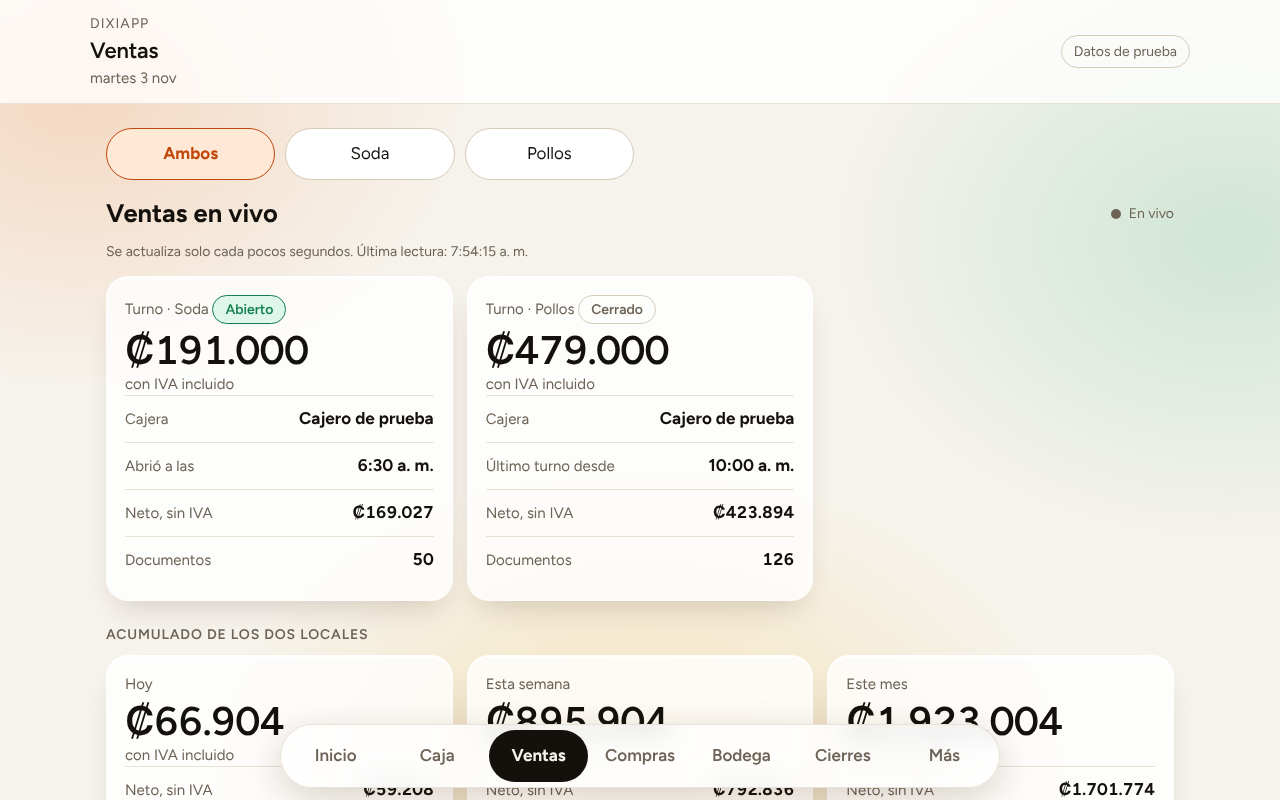
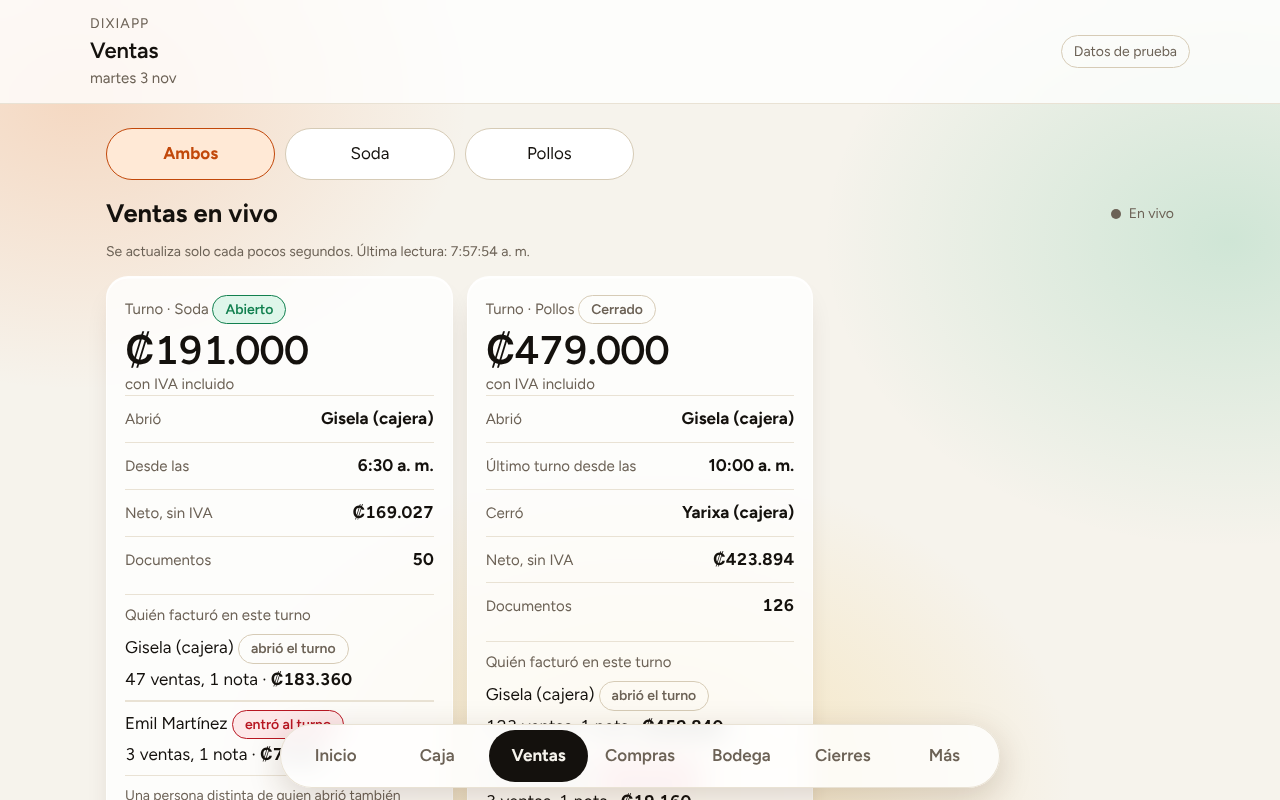
Dixiapp: avisos en el telefono (push web), turno con quien abrio y filtro por clasificacion en compras
Claude-Session: https://claude.ai/code/session_011LYsWAhbE7D1p4ByhmTELK

diff --git a/web/src/datos/supabase.js b/web/src/datos/supabase.js
@@ -3,6 +3,8 @@
 // Acceso: correo + contrasena (Supabase Auth) y, ademas, un PIN local por aparato para desbloquear sin escribir la clave.
 // El PIN solo guarda un hash PBKDF2 con sal en este aparato y solo sirve mientras haya una sesion valida.
 import { validarImplementacion } from './interfaz.js';
+import { CONFIG } from './config.js';
+import { motivoNoDisponible, suscripcionActual, crearSuscripcion, datosDe } from './push-cliente.js';
 import { horaLegible, lunesDe, sumarDias } from './fechas.js';
 import { resumenDesdeDias, desdeResumen } from './compras-calc.js';
 import { SUGERENCIA_MINIMOS } from './minimos-sugeridos.js';
@@ -270,7 +272,7 @@ export function crearDatosSupabase({ cliente, almacen = almacenPorDefecto(), aho
     async ventasEnVivo({ negocios } = {}) {
       await exigirAdmin();
       const r = ok(await db().rpc('ventas_en_vivo', { p_negocios: negocios && negocios.length ? negocios : null }));
-      const bloque = (b) => (b ? { total: num(b.con_iva), iva: num(b.iva), neto: num(b.con_iva) - num(b.iva), docs: Number(b.docs), desde: b.desde, hasta: b.hasta, estado: b.estado, abiertaPor: b.abierta_por || null, cerradaPor: b.cerrada_por || null } : null);
+      const bloque = (b) => (b ? { total: num(b.con_iva), iva: num(b.iva), neto: num(b.con_iva) - num(b.iva), docs: Number(b.docs), desde: b.desde, hasta: b.hasta, estado: b.estado, abiertaPor: b.abierta_por || null, cerradaPor: b.cerrada_por || null, terminal: b.terminal ?? null, participantes: (b.participantes || []).map((p) => ({ usuario: p.usuario, nombre: p.nombre, abrio: !!p.abrio, ventas: Number(p.ventas || 0), notas: Number(p.notas || 0), total: num(p.con_iva) })) } : null);
       return { generado: r.generado, negocios: (r.negocios || []).map((n) => ({ negocioId: n.negocio_id, turno: bloque(n.turno), hoy: bloque(n.hoy), semana: bloque(n.semana), mes: bloque(n.mes) })) };
     },
     async ventasAgrupadas({ negocios, desde, hasta, por }) {
@@ -278,6 +280,35 @@ export function crearDatosSupabase({ cliente, almacen = almacenPorDefecto(), aho
       const r = ok(await db().rpc('ventas_agrupadas', { p_negocios: negocios && negocios.length ? negocios : null, p_desde: desde, p_hasta: hasta, p_por: por }));
       return (r || []).map((f) => ({ clave: f.clave, etiqueta: f.clave, facturas: Number(f.documentos), neto: Number(f.sin_iva), iva: Number(f.iva), total: Number(f.con_iva) }));
     },
+    // ---------- Avisos en el telefono ----------
+    async avisosEstado() {
+      await exigirAdmin();
+      const motivo = motivoNoDisponible(), sub = await suscripcionActual();
+      if (!sub) return { motivo, activo: false, prefs: {} };
+      const r = ok(await db().rpc('push_estado', { p_endpoint: sub.endpoint }));
+      return { motivo: motivo === 'bloqueado' ? motivo : '', activo: !!r?.activo, prefs: r?.prefs || {} };
+    },
+    async avisosActivar() {
+      await exigirAdmin();
+      const sub = await crearSuscripcion(CONFIG.vapid);
+      if (!sub) return { motivo: 'bloqueado', activo: false, prefs: {} };
+      const d = datosDe(sub);
+      ok(await db().rpc('push_guardar', { p_endpoint: d.endpoint, p_p256dh: d.p256dh, p_auth: d.auth, p_agente: navigator.userAgent }));
+      return { motivo: '', activo: true, prefs: {} };
+    },
+    async avisosDesactivar() {
+      await exigirAdmin();
+      const sub = await suscripcionActual(); if (!sub) return;
+      ok(await db().rpc('push_quitar', { p_endpoint: sub.endpoint }));
+      await sub.unsubscribe();
+    },
+    async avisosGuardarPrefs(prefs) {
+      await exigirAdmin();
+      const sub = await suscripcionActual(); if (!sub) return prefs;
+      ok(await db().rpc('push_prefs_guardar', { p_endpoint: sub.endpoint, p_prefs: prefs }));
+      return prefs;
+    },
+    async avisosProbar() { await exigirAdmin(); ok(await db().rpc('push_prueba')); },
     async ventasSuscribir(cb) { await exigirAdmin(); const t = setInterval(() => cb({ tipo: 'pulso' }), 20000); return () => clearInterval(t); },
     // ---------- Inicio de Dixia ----------
     async viajes() {

diff --git a/web/src/vistas.js b/web/src/vistas.js
@@ -169,8 +169,35 @@ export function vistaCierres({ cierres, hayMas, semana }) {
 }
 
 // ---------- Más ----------
-export function vistaMas({ usuario, esAdmin, esPrueba, conBloqueo, negocios }) {
-  return `<h2 class="titulo-seccion">Sesión</h2><section class="tarjeta"><div class="fila"><span class="etq">Usuario</span><b>${esc(usuario.nombre)}</b></div>
+const MOTIVOS_AVISOS = {
+  ios_sin_instalar: 'Para recibir avisos en el iPhone, la app tiene que estar guardada en la pantalla de inicio (botón Compartir de Safari, luego «Agregar a pantalla de inicio») y abrirse desde ahí.',
+  sin_soporte: 'Este navegador no permite recibir avisos. En Android sirve Chrome; en iPhone, Safari con la app guardada en la pantalla de inicio.',
+  bloqueado: 'Los avisos están bloqueados en los ajustes de este teléfono para Dixiapp. Se activan desde los ajustes de notificaciones del teléfono.',
+};
+const TIPOS_AVISO = [
+  ['cierre_turno', 'Cierre de turno', 'Quién cerró, cuánto se vendió y cómo quedó el efectivo.'],
+  ['diferencia_caja', 'Diferencia de caja', 'Solo cuando al cerrar sobró o faltó efectivo.'],
+  ['efectivo', 'Entradas y salidas de efectivo', 'Monto, motivo y quién lo registró.'],
+  ['resumen_diario', 'Resumen de ayer, 8:00 a. m.', 'Ventas de ayer por local frente al mismo día de la semana pasada.'],
+];
+export const MINIMOS_EFECTIVO = [0, 10000, 25000, 50000];
+const aviso = (b, t) => `<div class="fila"><span><b>${t[1]}</b><br><span class="etq">${t[2]}</span></span>${boton('aviso-pref', (b.prefs[t[0]] ?? true) ? 'Activado' : 'Apagado', (b.prefs[t[0]] ?? true) ? 'bloque' : 'bloque peligro', `data-valor="${t[0]}" style="min-width:110px"`)}</div>`;
+function tarjetaAvisos(b) {
+  if (!b) return '';
+  let cuerpo;
+  if (b.motivo) cuerpo = `<p style="margin:0">${MOTIVOS_AVISOS[b.motivo] || ''}</p>`;
+  else if (!b.activo) cuerpo = `<p style="margin:0 0 12px">Recibirá en este teléfono un aviso corto cuando pase algo importante, aunque la app esté cerrada.</p>${boton('avisos-activar', 'Activar avisos')}`;
+  else {
+    const min = Number(b.prefs.efectivo_minimo || 0);
+    cuerpo = TIPOS_AVISO.map((t) => aviso(b, t)).join('')
+      + ((b.prefs.efectivo ?? true) ? `<div class="fila"><span><b>Efectivo: avisar desde</b><br><span class="etq">Toque para cambiar el monto mínimo.</span></span>${boton('aviso-min', min ? '₡' + min.toLocaleString('es-CR') : 'Todos', 'bloque', 'style="min-width:110px"')}</div>` : '')
+      + `<div class="acciones" style="margin-top:12px">${boton('avisos-probar', 'Enviar aviso de prueba')}${boton('avisos-desactivar', 'Desactivar en este teléfono', 'bloque peligro')}</div>`;
+  }
+  return `<h2 class="titulo-seccion">Avisos en este teléfono</h2><section class="tarjeta">${cuerpo}</section>`;
+}
+export function vistaMas({ usuario, esAdmin, esPrueba, conBloqueo, negocios, avisos }) {
+  return `${esAdmin ? tarjetaAvisos(avisos) : ''}`
+    + `<h2 class="titulo-seccion">Sesión</h2><section class="tarjeta"><div class="fila"><span class="etq">Usuario</span><b>${esc(usuario.nombre)}</b></div>
       <div class="fila"><span class="etq">Rol</span><b>${esAdmin ? 'Administrador' : 'Cajero'}</b></div>
       <div class="acciones" style="margin-top:12px">${conBloqueo ? boton('bloquear', 'Bloquear ahora') : '<span></span>'}${boton('salir', 'Salir de sesión')}</div></section>
     <h2 class="titulo-seccion">Próximas pantallas</h2><section class="tarjeta proximo"><p style="margin:0"><b>Aquí irán las pantallas nuevas.</b></p>

diff --git a/web/src/app.js b/web/src/app.js
@@ -1,6 +1,6 @@
 import { datos } from './datos/index.js';
 import { leerMonto, aplicarTema, esc } from './ui.js';
-import { vistaPin, vistaEntrada, vistaCorreo, marco, selectorNegocio, vistaCaja, vistaCierres, vistaMas } from './vistas.js';
+import { vistaPin, vistaEntrada, vistaCorreo, marco, selectorNegocio, vistaCaja, vistaCierres, vistaMas, MINIMOS_EFECTIVO } from './vistas.js';
 import { resultadosBusqueda, vistaCompras } from './vistas-compras.js';
 import { vistaInicio, diasHasta } from './vistas-inicio.js';
 import { mensajeDelDia } from './mensajes.js';
@@ -71,7 +71,8 @@ async function construir() {
   } else if (s.pestana === 'Bodega' && esAdmin()) {
     contenido = await construirBodega(datos, s.bodega, hoy); titulo = { nombre: 'Bodega' };
   } else {
-    contenido = vistaMas({ usuario: s.usuario, tema: s.tema, esAdmin: esAdmin(), esPrueba: datos.esPrueba, conBloqueo: !datos.esPrueba, negocios: s.negocios });
+    if (esAdmin()) s.avisos = await datos.avisosEstado().catch(() => null);
+    contenido = vistaMas({ usuario: s.usuario, tema: s.tema, esAdmin: esAdmin(), esPrueba: datos.esPrueba, conBloqueo: !datos.esPrueba, negocios: s.negocios, avisos: esAdmin() ? s.avisos : null });
     titulo = s.negocios.find((n) => n.id === s.negocioId);
   }
   s.error = '';
@@ -243,6 +244,11 @@ raiz.addEventListener('click', async (ev) => {
     if (a === 'negocio') { s.negocioId = v; escribirLS('dixiapp.negocio', v); Object.assign(s, { form: null, limite: 7, fecha: null, aviso: '', cierre: null, corrigiendo: null }); return pintar(); }
     if (a === 'tema') { s.tema = v; escribirLS('dixiapp.tema', v); aplicarTema(v); return pintar(); }
     if (a === 'restablecer') { await datos.restablecerPrueba(); s.aviso = ''; return pintar(); }
+    if (a === 'avisos-activar') { s.avisos = await datos.avisosActivar(); return pintar(); }
+    if (a === 'avisos-desactivar') { await datos.avisosDesactivar(); return pintar(); }
+    if (a === 'avisos-probar') { await datos.avisosProbar(); return pintar(); }
+    if (a === 'aviso-pref') { const p = { ...(s.avisos?.prefs || {}) }; p[v] = !(p[v] ?? true); await datos.avisosGuardarPrefs(p); return pintar(); }
+    if (a === 'aviso-min') { const p = { ...(s.avisos?.prefs || {}) }; const i = MINIMOS_EFECTIVO.indexOf(Number(p.efectivo_minimo || 0)); p.efectivo_minimo = MINIMOS_EFECTIVO[(i + 1) % MINIMOS_EFECTIVO.length]; await datos.avisosGuardarPrefs(p); return pintar(); }
     if (a === 'mas-cierres') { s.limite += 7; return pintar(); }
     if (a === 'ir-bodega') { s.bodega.seccion = v; s.pestana = 'Bodega'; await pintar(); return void window.scrollTo(0, 0); }
     if (a === 'dif-abrir') { s.resolviendo = v; s.notaDif = ''; return pintar(); }
@@ -375,6 +381,8 @@ async function cerrar(confirmar) {
 
 async function iniciar() {
   try { await evaluarAcceso(); } catch (e) { s.errorPin = e.message; }
+  const destino = { '#ventas': 'Ventas', '#cierres': 'Cierres' }[location.hash]; // al tocar un aviso se abre la pantalla que corresponde
+  if (destino && s.usuario && esAdmin()) s.pestana = destino;
   await pintar();
 }
 iniciar();

diff --git a/web/sw.js b/web/sw.js
@@ -1,10 +1,10 @@
 // Service worker de Dixiapp: cachea SOLO la interfaz (archivos estaticos de esta lista).
 // Nunca guarda datos de caja: cualquier otra peticion (por ejemplo Supabase) va directo a la red.
-const VERSION = 'dixiapp-interfaz-v17';
+const VERSION = 'dixiapp-interfaz-v18';
 const INTERFAZ = [
   './', './index.html', './estilos.css', './manifest.webmanifest',
   './src/app.js', './src/vistas.js', './src/vistas-compras.js', './src/vistas-ventas.js', './src/vistas-inicio.js', './src/mensajes.js', './src/vistas-bodega.js', './src/bodega.js', './src/ui.js', './vendor/supabase-js.js',
-  './src/datos/index.js', './src/datos/interfaz.js', './src/datos/prueba.js', './src/datos/prueba-bodega.js', './src/datos/supabase.js',
+  './src/datos/index.js', './src/datos/interfaz.js', './src/datos/prueba.js', './src/datos/prueba-bodega.js', './src/datos/supabase.js', './src/datos/push-cliente.js',
   './src/datos/config.js', './src/datos/minimos-sugeridos.js', './sin-conexion.html', './src/datos/compras-calc.js', './src/datos/calculos.js', './src/datos/fechas.js', './src/datos/formato.js',
   './fotos/entrada.jpg', './iconos/favicon.svg', './iconos/favicon-64.png', './favicon.ico', './fuentes/colon-400.woff2', './fuentes/colon-500.woff2', './fuentes/colon-600.woff2', './fuentes/colon-700.woff2', './fuentes/colon-800.woff2', './fuentes/figtree-400.woff2', './fuentes/figtree-600.woff2', './fuentes/figtree-700.woff2', './iconos/icono-180.png', './iconos/icono-192.png', './iconos/icono-512.png', './iconos/icono-maskable-512.png',
 ];
@@ -21,4 +21,15 @@ self.addEventListener('fetch', (e) => {
   if (r.method !== 'GET' || url.origin !== self.location.origin || !permitidas.has(url.pathname)) return; // red directa
   // Primero la red (para ver cambios), y si no hay conexion, la copia de la interfaz
   e.respondWith(fetch(r).then((res) => { const copia = res.clone(); caches.open(VERSION).then((c) => c.put(r, copia)); return res; }).catch(() => caches.match(r).then((c) => c || (r.mode === 'navigate' ? caches.match('./index.html') : undefined))));
+});
+
+// Avisos en el telefono: se muestran aunque la app este cerrada
+self.addEventListener('push', (e) => {
+  let d = {}; try { d = e.data ? e.data.json() : {}; } catch { d = { titulo: 'Dixiapp', cuerpo: e.data ? e.data.text() : '' }; }
+  e.waitUntil(self.registration.showNotification(d.titulo || 'Dixiapp', { body: d.cuerpo || '', icon: './iconos/icono-192.png', badge: './iconos/icono-192.png', tag: d.tipo || 'dixiapp', data: { url: d.url || './' } }));
+});
+self.addEventListener('notificationclick', (e) => {
+  e.notification.close();
+  const destino = new URL((e.notification.data && e.notification.data.url) || './', self.location).href;
+  e.waitUntil(self.clients.matchAll({ type: 'window', includeUncontrolled: true }).then((cs) => { const c = cs[0]; if (c) { c.focus(); return 'navigate' in c ? c.navigate(destino) : undefined; } return self.clients.openWindow(destino); }));
 });

diff --git a/web/src/vistas-ventas.js b/web/src/vistas-ventas.js
@@ -22,16 +22,20 @@ export function horaDeApertura(desde, desdeHora) {
 
 function tarjetaTurno(n) {
   const t = n.turno, nombre = NEGOCIO[n.negocioId] || n.negocioId;
-  if (!t) return `<section class="tarjeta resumen"><div class="etq">Turno · ${esc(nombre)}</div><div class="grande num">—</div><div class="etq">Todavía no hay caja abierta.</div></section>`;
+  if (!t) return `<section class="tarjeta resumen"><div class="etq">Turno · ${esc(nombre)}</div><div class="grande num">—</div><div class="etq">Todavía no hay turno en el facturador.</div></section>`;
   const abierto = t.estado === 'abierta';
-  const quien = abierto ? esc(t.abiertaPor || 'sin nombre') : `${esc(t.abiertaPor || 'sin nombre')}${t.cerradaPor && t.cerradaPor !== t.abiertaPor ? `, cerró ${esc(t.cerradaPor)}` : ''}`;
+  const otros = (t.participantes || []).filter((p) => !p.abrio);
+  const part = (t.participantes || []).length
+    ? `<div class="part"><div class="etq">Quién facturó en este turno</div><ul class="lista">${t.participantes.map((p) => `<li class="d-fila"><span>${esc(p.nombre)}${p.abrio ? ' <span class="insignia neutra">abrió el turno</span>' : ' <span class="insignia falta">entró al turno</span>'}</span><span class="num">${p.ventas} ${p.ventas === 1 ? 'venta' : 'ventas'}${p.notas ? `, ${p.notas} ${p.notas === 1 ? 'nota' : 'notas'}` : ''} · <b>${colones(p.total)}</b></span></li>`).join('')}</ul></div>` : '';
   return `<section class="tarjeta resumen turno"><div class="etq">Turno · ${esc(nombre)} <span class="insignia ${abierto ? 'cuadra' : 'neutra'}">${abierto ? 'Abierto' : 'Cerrado'}</span></div>
     <div class="grande num" data-id="turno-${esc(n.negocioId)}">${colones(t.total)}</div>
     <div class="etq">con IVA incluido</div>
-    <div class="fila"><span class="etq">Cajera</span><b>${quien}</b></div>
-    <div class="fila"><span class="etq">${abierto ? 'Abrió a las' : 'Último turno desde'}</span><b>${esc(horaDeApertura(t.desde, t.desdeHora))}</b></div>
+    <div class="fila"><span class="etq">Abrió</span><b>${esc(t.abiertaPor || 'sin nombre')}</b></div>
+    <div class="fila"><span class="etq">${abierto ? 'Desde las' : 'Último turno desde las'}</span><b>${esc(horaDeApertura(t.desde, t.desdeHora))}</b></div>
+    ${!abierto ? `<div class="fila"><span class="etq">Cerró</span><b>${esc(t.cerradaPor || 'sin dato')}</b></div>` : ''}
     <div class="fila"><span class="etq">Neto, sin IVA</span><b class="num">${colones(t.neto)}</b></div>
-    <div class="fila"><span class="etq">Documentos</span><b class="num">${t.docs}</b></div></section>`;
+    <div class="fila"><span class="etq">Documentos</span><b class="num">${t.docs}</b></div>
+    ${part}${otros.length && abierto ? '<p class="pie">Una persona distinta de quien abrió también facturó en este turno.</p>' : ''}</section>`;
 }
 
 function tarjetaPeriodo(titulo, r) {

diff --git a/web/src/datos/prueba.js b/web/src/datos/prueba.js
@@ -311,7 +311,11 @@ export function crearDatosPrueba({ almacen = almacenPorDefecto(), ahora = () => 
       const suma = (n, desde, hasta) => ventasDeRango(n, desde, hasta, h, ahora());
       return { generado: ahora().toISOString(), negocios: ids.map((n) => {
         const caja = e.cajas.filter((c) => c.negocioId === n).slice(-1)[0];
-        const turno = caja ? { ...bloqueVentas(Object.values(caja.ventas || {}).reduce((x, y) => x + (Number(y) || 0), 0), caja.estado, caja.fecha), abiertaPor: caja.abiertaPor || null, cerradaPor: caja.cerradaPor || null, desdeHora: caja.abiertaA || null } : null;
+        const bt = caja ? bloqueVentas(Object.values(caja.ventas || {}).reduce((x, y) => x + (Number(y) || 0), 0), caja.estado, caja.fecha) : null;
+        // En el turno de la cajera tambien facturan el administrador y la hermana de vez en cuando: el turno dice quien hizo que
+        const turno = caja ? { ...bt, abiertaPor: 'Gisela (cajera)', cerradaPor: caja.estado === 'cerrada' ? 'Yarixa (cajera)' : null, desdeHora: caja.abiertaA || null, terminal: 1,
+          participantes: [{ usuario: 'gisela', nombre: 'Gisela (cajera)', abrio: true, ventas: Math.max(bt.docs - 3, 0), notas: 1, total: bt.total - Math.round(bt.total * 0.04) },
+            { usuario: 'emil', nombre: 'Emil Martínez', abrio: false, ventas: 3, notas: 1, total: Math.round(bt.total * 0.04) }] } : null;
         return { negocioId: n, turno, hoy: suma(n, h, h), semana: suma(n, lunesDe(h), h), mes: suma(n, inicioMes(h), h) };
       }) };
     },
@@ -326,6 +330,12 @@ export function crearDatosPrueba({ almacen = almacenPorDefecto(), ahora = () => 
       }
       return [...grupos.values()].map((g) => ({ ...g, neto: Math.round(g.neto), iva: Math.round(g.iva), total: Math.round(g.total) })).sort((a, b) => a.clave.localeCompare(b.clave));
     },
+    // Avisos (simulados: en el modo de prueba no se manda nada al telefono)
+    async avisosEstado() { exigirAdmin(); const e = leer(); return { motivo: '', activo: !!e.avisos, prefs: e.avisos || {} }; },
+    async avisosActivar() { exigirAdmin(); const e = leer(); e.avisos = {}; guardar(e); return { motivo: '', activo: true, prefs: {} }; },
+    async avisosDesactivar() { exigirAdmin(); const e = leer(); e.avisos = null; guardar(e); },
+    async avisosGuardarPrefs(prefs) { exigirAdmin(); const e = leer(); e.avisos = { ...prefs }; guardar(e); return e.avisos; },
+    async avisosProbar() { exigirAdmin(); },
     async ventasSuscribir(cb) { exigirAdmin(); const t = setInterval(() => cb({ tipo: 'pulso' }), 20000); return () => clearInterval(t); },
     async viajes() { exigir(); return (leer().viajes || []).slice().reverse(); },
     async viajeAgregar({ destino, fecha }) {

diff --git a/docs/fn_dixi_push/index.ts b/docs/fn_dixi_push/index.ts
@@ -1,0 +1,36 @@
+// Dixiapp: envia los avisos al telefono (notificaciones push web). Lo llama pg_cron cada minuto cuando hay avisos pendientes.
+// Seguridad: encabezado x-fact-secreto (el mismo secreto de envio del facturador), comparado en tiempo constante. Sin JWT.
+import { createClient } from 'npm:@supabase/supabase-js@2.45.4';
+import webpush from 'npm:web-push@3.6.7';
+
+const iguales = (a: string, b: string) => { if (a.length !== b.length) return false; let d = 0; for (let i = 0; i < a.length; i++) d |= a.charCodeAt(i) ^ b.charCodeAt(i); return d === 0; };
+
+Deno.serve(async (req) => {
+  const url = Deno.env.get('SUPABASE_URL')!, llave = Deno.env.get('SUPABASE_SERVICE_ROLE_KEY')!;
+  const db = createClient(url, llave, { db: { schema: 'dixi' }, auth: { persistSession: false } });
+  const { data: sec } = await db.rpc('push_secretos');
+  const esperado = typeof sec?.envio === 'string' ? sec.envio : '';
+  if (!esperado || !iguales(req.headers.get('x-fact-secreto') ?? '', esperado)) return new Response('no autorizado', { status: 401 });
+  const vp = sec?.vapid;
+  if (!vp?.pub || !vp?.priv) return new Response('faltan las llaves de avisos', { status: 500 });
+  webpush.setVapidDetails(vp.sujeto ?? 'mailto:emilmartinez@outlook.com', vp.pub, vp.priv);
+  const { data: avisos, error } = await db.rpc('push_tomar');
+  if (error) return new Response(JSON.stringify({ error: error.message }), { status: 500 });
+  let enviados = 0;
+  for (const a of avisos ?? []) {
+    let ok = 0; const muertos: string[] = [];
+    const carga = JSON.stringify({ titulo: a.titulo, cuerpo: a.cuerpo, url: a.url, tipo: a.tipo });
+    for (const d of a.destinos) {
+      try {
+        await webpush.sendNotification({ endpoint: d.endpoint, keys: { p256dh: d.p256dh, auth: d.auth } }, carga, { TTL: 60 * 60 * 12, urgency: 'high' });
+        ok++;
+      } catch (e) {
+        const s = (e as { statusCode?: number }).statusCode;
+        if (s === 404 || s === 410) muertos.push(d.id);
+      }
+    }
+    await db.rpc('push_resultado', { p_id: a.id, p_ok: ok, p_muertos: muertos });
+    enviados += ok;
+  }
+  return new Response(JSON.stringify({ avisos: (avisos ?? []).length, enviados }), { headers: { 'Content-Type': 'application/json' } });
+});

diff --git a/scripts/capturas-avisos.js b/scripts/capturas-avisos.js
@@ -1,0 +1,27 @@
+// Capturas de la tarjeta "Avisos en este telefono" (pestana Mas), apagada y activada. Requiere el servidor en el puerto 8100.
+import { createRequire } from 'node:module';
+import path from 'node:path';
+import fs from 'node:fs';
+import { fileURLToPath } from 'node:url';
+const { chromium } = createRequire(import.meta.url)('playwright');
+const salida = path.join(path.dirname(fileURLToPath(import.meta.url)), '..', 'capturas');
+const URL = process.env.URL_APP || 'http://127.0.0.1:8100/';
+fs.mkdirSync(salida, { recursive: true });
+const nav = await chromium.launch();
+for (const [nombre, w, h] of [['telefono', 390, 844], ['escritorio', 1440, 900]]) {
+  const ctx = await nav.newContext({ viewport: { width: w, height: h }, locale: 'es-CR' });
+  const p = await ctx.newPage(); const errores = []; p.on('pageerror', (e) => errores.push(e.message));
+  await p.route('**/src/datos/config.js', (r) => r.fulfill({ contentType: 'text/javascript', body: "export const CONFIG = { modo: 'prueba' };" }));
+  await p.goto(URL);
+  for (const c of '1234') await p.click(`.tecla[data-valor="${c}"]`);
+  await p.click('text=Entrar'); await p.waitForSelector('.pestanas');
+  await p.click('.pestana:has-text("Más")'); await p.waitForSelector('text=Avisos en este teléfono');
+  await p.addStyleTag({ content: '.pestanas{position:static!important} main{padding-bottom:24px!important}' });
+  await p.screenshot({ path: `${salida}/avisos apagados ${nombre}.png`, fullPage: true });
+  await p.click('[data-accion="avisos-activar"]'); await p.waitForSelector('[data-accion="avisos-probar"]');
+  await p.click('[data-accion="aviso-pref"][data-valor="resumen_diario"]'); await p.click('[data-accion="aviso-min"]');
+  await p.screenshot({ path: `${salida}/avisos activados ${nombre}.png`, fullPage: true });
+  console.log(nombre, 'errores:', errores.length ? errores.join(' | ') : 'ninguno');
+  await ctx.close();
+}
+await nav.close();

diff --git a/web/src/datos/interfaz.js b/web/src/datos/interfaz.js
@@ -46,8 +46,13 @@ export const METODOS = [
   'comprasAgrupadas',     // ({negocios, desde, hasta, por, proveedor}) => [{clave, etiqueta, facturas, neto, iva, total}]
   'comprasSuscribir',     // (callback) => funcion para cancelar (tiempo real)
   // Ventas (solo administradores, solo consulta; salen del facturador con la misma regla de la caja: ventas facturadas menos notas de credito mas notas de debito)
-  'ventasEnVivo',         // ({negocios}) => { generado, negocios: [{negocioId, turno: {estado, desde, hasta, abiertaPor, cerradaPor, total, iva, neto, docs}|null, hoy, semana, mes}] } cada bloque {total, iva, neto, docs}; total = con IVA
+  'ventasEnVivo',         // ({negocios}) => { generado, negocios: [{negocioId, turno: {estado, desde, hasta, abiertaPor, cerradaPor, terminal, participantes:[{usuario, nombre, abrio, ventas, notas, total}], total, iva, neto, docs}|null  (turno del FACTURADOR: lo abre la cajera y dentro facturan tambien administrador y hermana), hoy, semana, mes}] } cada bloque {total, iva, neto, docs}; total = con IVA
   'ventasAgrupadas',      // ({negocios, desde, hasta, por: 'dia'|'semana'|'mes'}) => [{clave, etiqueta, facturas, neto, iva, total}]  (facturas = documentos de venta)
+  'avisosEstado',         // () => {motivo:''|'ios_sin_instalar'|'sin_soporte'|'bloqueado', activo, prefs}
+  'avisosActivar',        // () => {activo, prefs}   (pide el permiso del telefono)
+  'avisosDesactivar',     // () => void
+  'avisosGuardarPrefs',   // (prefs) => prefs
+  'avisosProbar',         // () => void   (manda un aviso de prueba)
   'ventasSuscribir',      // (callback) => funcion para cancelar (se avisa cada pocos segundos mientras este abierta)
   // Bodega (solo administradores): se apoya en el inventario del facturador (fact.inv_*), sin duplicarlo
   'bodegaUbicaciones',    // () => [{id, nombre, tipo: 'bodega'|'local'}]

diff --git a/web/src/datos/push-cliente.js b/web/src/datos/push-cliente.js
@@ -1,0 +1,23 @@
+// Avisos en el telefono (notificaciones push web): permiso, suscripcion y deteccion de lo que el aparato permite.
+const aBytes = (b64) => { const p = '='.repeat((4 - (b64.length % 4)) % 4); const r = atob((b64 + p).replace(/-/g, '+').replace(/_/g, '/')); return Uint8Array.from(r, (c) => c.charCodeAt(0)); };
+const esIOS = () => /iphone|ipad|ipod/i.test(navigator.userAgent) || (navigator.platform === 'MacIntel' && navigator.maxTouchPoints > 1);
+const instalada = () => (window.matchMedia && matchMedia('(display-mode: standalone)').matches) || navigator.standalone === true;
+
+// '' = se puede; si no, el motivo en una palabra clave
+export function motivoNoDisponible() {
+  if (esIOS() && !instalada()) return 'ios_sin_instalar';
+  if (!('serviceWorker' in navigator) || !('PushManager' in window) || !('Notification' in window)) return 'sin_soporte';
+  if (Notification.permission === 'denied') return 'bloqueado';
+  return '';
+}
+export async function suscripcionActual() {
+  if (!('serviceWorker' in navigator) || !('PushManager' in window)) return null;
+  try { const reg = await navigator.serviceWorker.ready; return await reg.pushManager.getSubscription(); } catch { return null; }
+}
+export async function crearSuscripcion(vapidPublica) {
+  const permiso = await Notification.requestPermission();
+  if (permiso !== 'granted') return null;
+  const reg = await navigator.serviceWorker.ready;
+  return (await reg.pushManager.getSubscription()) || reg.pushManager.subscribe({ userVisibleOnly: true, applicationServerKey: aBytes(vapidPublica) });
+}
+export const datosDe = (sub) => { const j = sub.toJSON(); return { endpoint: j.endpoint, p256dh: j.keys?.p256dh, auth: j.keys?.auth }; };

diff --git a/tests/datos.test.js b/tests/datos.test.js
@@ -305,3 +305,13 @@ test('ventas en vivo: hoy dentro de la semana y del mes, el mes coincide con los
   await c.iniciarSesion({ pin: '4321' });
   await assert.rejects(() => c.ventasEnVivo({}), /No autorizado/);
 });
+
+test('avisos del telefono: activar, apagar uno, monto minimo y desactivar (modo de prueba)', async () => {
+  const d = await crearDatosPrueba(); await d.iniciarSesion({ pin: '1234' });
+  assert.equal((await d.avisosEstado()).activo, false);
+  assert.equal((await d.avisosActivar()).activo, true);
+  await d.avisosGuardarPrefs({ resumen_diario: false, efectivo_minimo: 25000 });
+  const e = await d.avisosEstado();
+  assert.equal(e.prefs.resumen_diario, false); assert.equal(e.prefs.efectivo_minimo, 25000);
+  await d.avisosDesactivar(); assert.equal((await d.avisosEstado()).activo, false);
+});

diff --git a/web/estilos.css b/web/estilos.css
@@ -349,3 +349,4 @@ body { background:
 .tabla tbody th { text-align: left; font-weight: 500; color: var(--tinta, inherit); font-size: 16px; padding: 11px 8px 11px 0; border-bottom: 1px solid var(--linea); }
 .turno .fila b { text-align: right; }
 .tabla-ancha { min-width: 420px; } .tabla-ancha th, .tabla-ancha td { padding-left: 14px; } .tabla-ancha th:first-child, .tabla-ancha td:first-child { padding-left: 0; }
+.part { margin-top: 12px; border-top: 1px solid var(--linea); padding-top: 10px; } .part .d-fila { display: flex; flex-wrap: wrap; justify-content: space-between; gap: 4px 12px; padding: 8px 0; border-bottom: 1px solid var(--linea); } .part .d-fila .num { text-align: right; }
